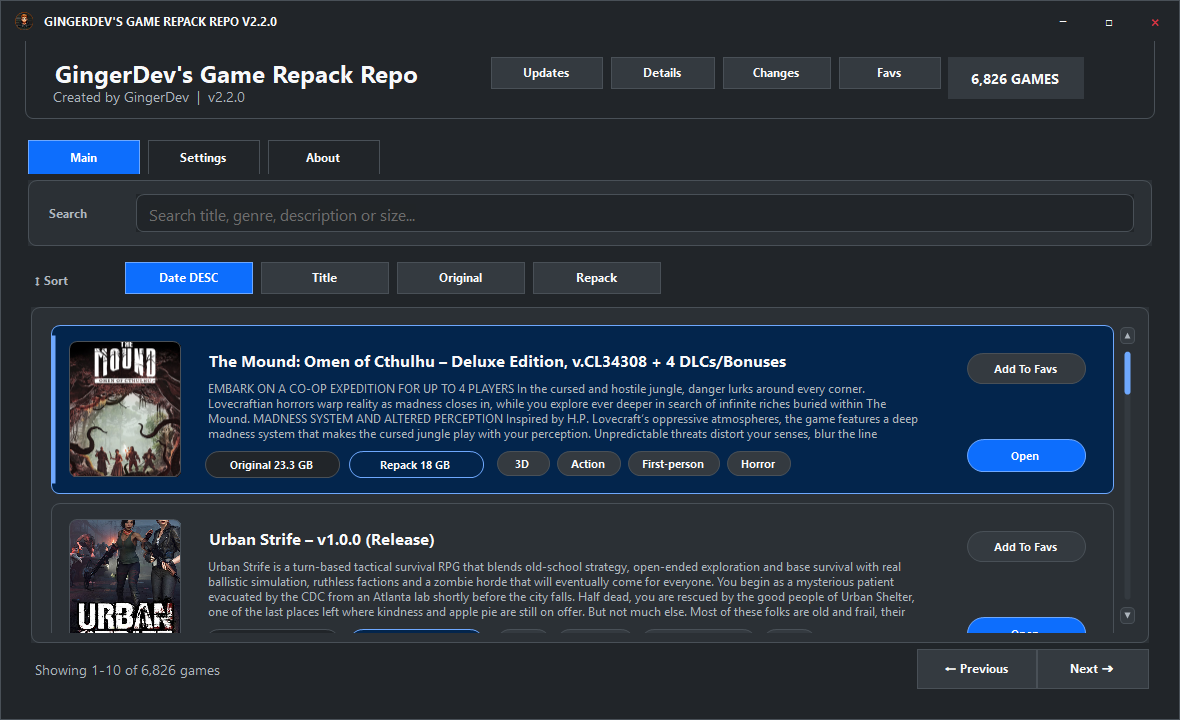
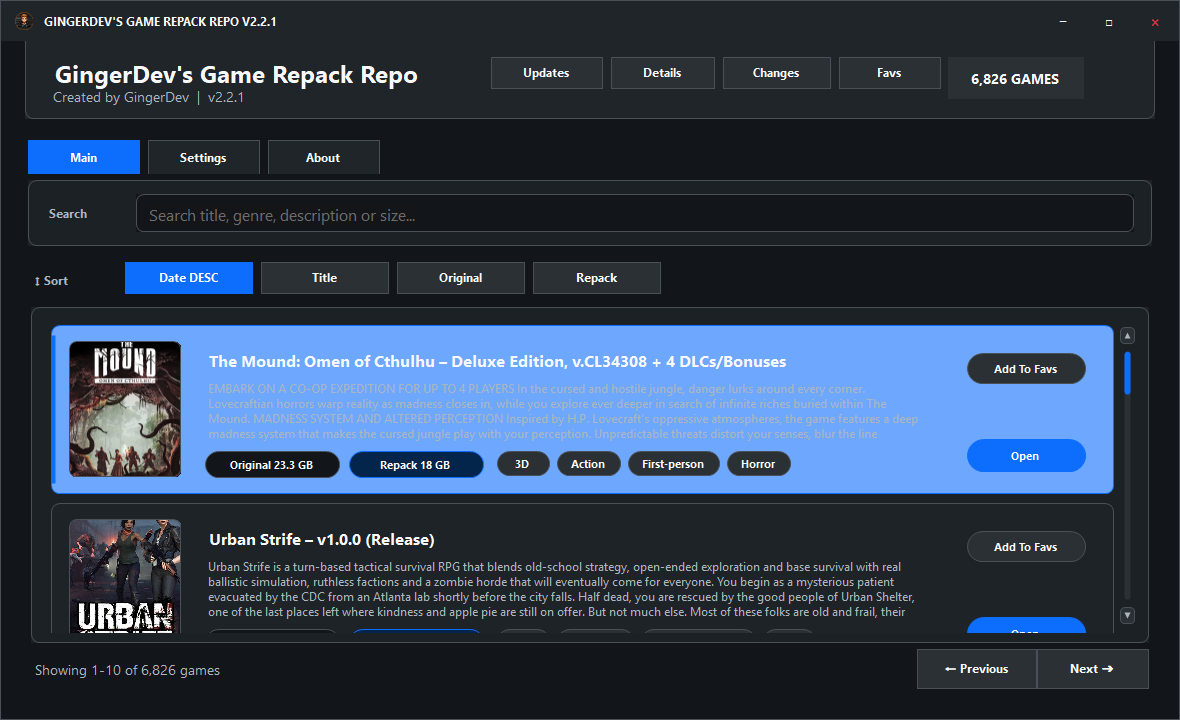
Move theme gallery to THEMES

Changed region(s): [[0.0305, 0.4278, 0.9763, 0.7028]]

diff --git a/THEMES.md b/THEMES.md
@@ -1,0 +1,146 @@
+<h1 align="center">GingerDev's Game Repack Repo Themes</h1>
+
+<p align="center">
+  Each theme family includes a Light and Dark mode.
+</p>
+
+<p align="center">
+  <a href="README.md">Back to README</a>
+</p>
+
+<hr>
+
+<h2>Bootstrap</h2>
+
+<table>
+  <tr>
+    <td width="50%">
+      <h3 align="center">Bootstrap Light</h3>
+      <img src="docs/screenshots/themes/bootstrap-light.png" alt="Bootstrap Light theme">
+    </td>
+    <td width="50%">
+      <h3 align="center">Bootstrap Dark</h3>
+      <img src="docs/screenshots/themes/bootstrap-dark.png" alt="Bootstrap Dark theme">
+    </td>
+  </tr>
+</table>
+
+<h2>Mint</h2>
+
+<table>
+  <tr>
+    <td width="50%">
+      <h3 align="center">Mint Light</h3>
+      <img src="docs/screenshots/themes/mint-light.png" alt="Mint Light theme">
+    </td>
+    <td width="50%">
+      <h3 align="center">Mint Dark</h3>
+      <img src="docs/screenshots/themes/mint-dark.png" alt="Mint Dark theme">
+    </td>
+  </tr>
+</table>
+
+<h2>Rose</h2>
+
+<table>
+  <tr>
+    <td width="50%">
+      <h3 align="center">Rose Light</h3>
+      <img src="docs/screenshots/themes/rose-light.png" alt="Rose Light theme">
+    </td>
+    <td width="50%">
+      <h3 align="center">Rose Dark</h3>
+      <img src="docs/screenshots/themes/rose-dark.png" alt="Rose Dark theme">
+    </td>
+  </tr>
+</table>
+
+<h2>Slate</h2>
+
+<table>
+  <tr>
+    <td width="50%">
+      <h3 align="center">Slate Light</h3>
+      <img src="docs/screenshots/themes/slate-light.png" alt="Slate Light theme">
+    </td>
+    <td width="50%">
+      <h3 align="center">Slate Dark</h3>
+      <img src="docs/screenshots/themes/slate-dark.png" alt="Slate Dark theme">
+    </td>
+  </tr>
+</table>
+
+<h2>Indigo</h2>
+
+<table>
+  <tr>
+    <td width="50%">
+      <h3 align="center">Indigo Light</h3>
+      <img src="docs/screenshots/themes/indigo-light.png" alt="Indigo Light theme">
+    </td>
+    <td width="50%">
+      <h3 align="center">Indigo Dark</h3>
+      <img src="docs/screenshots/themes/indigo-dark.png" alt="Indigo Dark theme">
+    </td>
+  </tr>
+</table>
+
+<h2>Cyan</h2>
+
+<table>
+  <tr>
+    <td width="50%">
+      <h3 align="center">Cyan Light</h3>
+      <img src="docs/screenshots/themes/cyan-light.png" alt="Cyan Light theme">
+    </td>
+    <td width="50%">
+      <h3 align="center">Cyan Dark</h3>
+      <img src="docs/screenshots/themes/cyan-dark.png" alt="Cyan Dark theme">
+    </td>
+  </tr>
+</table>
+
+<h2>Amber</h2>
+
+<table>
+  <tr>
+    <td width="50%">
+      <h3 align="center">Amber Light</h3>
+      <img src="docs/screenshots/themes/amber-light.png" alt="Amber Light theme">
+    </td>
+    <td width="50%">
+      <h3 align="center">Amber Dark</h3>
+      <img src="docs/screenshots/themes/amber-dark.png" alt="Amber Dark theme">
+    </td>
+  </tr>
+</table>
+
+<h2>Graphite</h2>
+
+<table>
+  <tr>
+    <td width="50%">
+      <h3 align="center">Graphite Light</h3>
+      <img src="docs/screenshots/themes/graphite-light.png" alt="Graphite Light theme">
+    </td>
+    <td width="50%">
+      <h3 align="center">Graphite Dark</h3>
+      <img src="docs/screenshots/themes/graphite-dark.png" alt="Graphite Dark theme">
+    </td>
+  </tr>
+</table>
+
+<h2>Forest</h2>
+
+<table>
+  <tr>
+    <td width="50%">
+      <h3 align="center">Forest Light</h3>
+      <img src="docs/screenshots/themes/forest-light.png" alt="Forest Light theme">
+    </td>
+    <td width="50%">
+      <h3 align="center">Forest Dark</h3>
+      <img src="docs/screenshots/themes/forest-dark.png" alt="Forest Dark theme">
+    </td>
+  </tr>
+</table>

diff --git a/README.md b/README.md
@@ -43,60 +43,12 @@
   </tr>
 </table>
 
-<h2>Theme Gallery</h2>
+<h2>Themes</h2>
 
-<table>
-  <tr>
-    <td width="50%">
-      <h3 align="center">Bootstrap Light</h3>
-      <img src="docs/screenshots/themes/bootstrap-light.png" alt="Bootstrap Light theme">
-    </td>
-    <td width="50%">
-      <h3 align="center">Bootstrap Dark</h3>
-      <img src="docs/screenshots/themes/bootstrap-dark.png" alt="Bootstrap Dark theme">
-    </td>
-  </tr>
-  <tr>
-    <td width="50%">
-      <h3 align="center">Mint</h3>
-      <img src="docs/screenshots/themes/mint.png" alt="Mint theme">
-    </td>
-    <td width="50%">
-      <h3 align="center">Rose</h3>
-      <img src="docs/screenshots/themes/rose.png" alt="Rose theme">
-    </td>
-  </tr>
-  <tr>
-    <td width="50%">
-      <h3 align="center">Slate</h3>
-      <img src="docs/screenshots/themes/slate.png" alt="Slate theme">
-    </td>
-    <td width="50%">
-      <h3 align="center">Indigo</h3>
-      <img src="docs/screenshots/themes/indigo.png" alt="Indigo theme">
-    </td>
-  </tr>
-  <tr>
-    <td width="50%">
-      <h3 align="center">Cyan</h3>
-      <img src="docs/screenshots/themes/cyan.png" alt="Cyan theme">
-    </td>
-    <td width="50%">
-      <h3 align="center">Amber</h3>
-      <img src="docs/screenshots/themes/amber.png" alt="Amber theme">
-    </td>
-  </tr>
-  <tr>
-    <td width="50%">
-      <h3 align="center">Graphite</h3>
-      <img src="docs/screenshots/themes/graphite.png" alt="Graphite theme">
-    </td>
-    <td width="50%">
-      <h3 align="center">Forest</h3>
-      <img src="docs/screenshots/themes/forest.png" alt="Forest theme">
-    </td>
-  </tr>
-</table>
+<p>
+  Every theme family includes Light and Dark modes. See the full screenshot gallery in
+  <a href="THEMES.md"><strong>THEMES.md</strong></a>.
+</p>
 
 <h2>Highlights</h2>
 